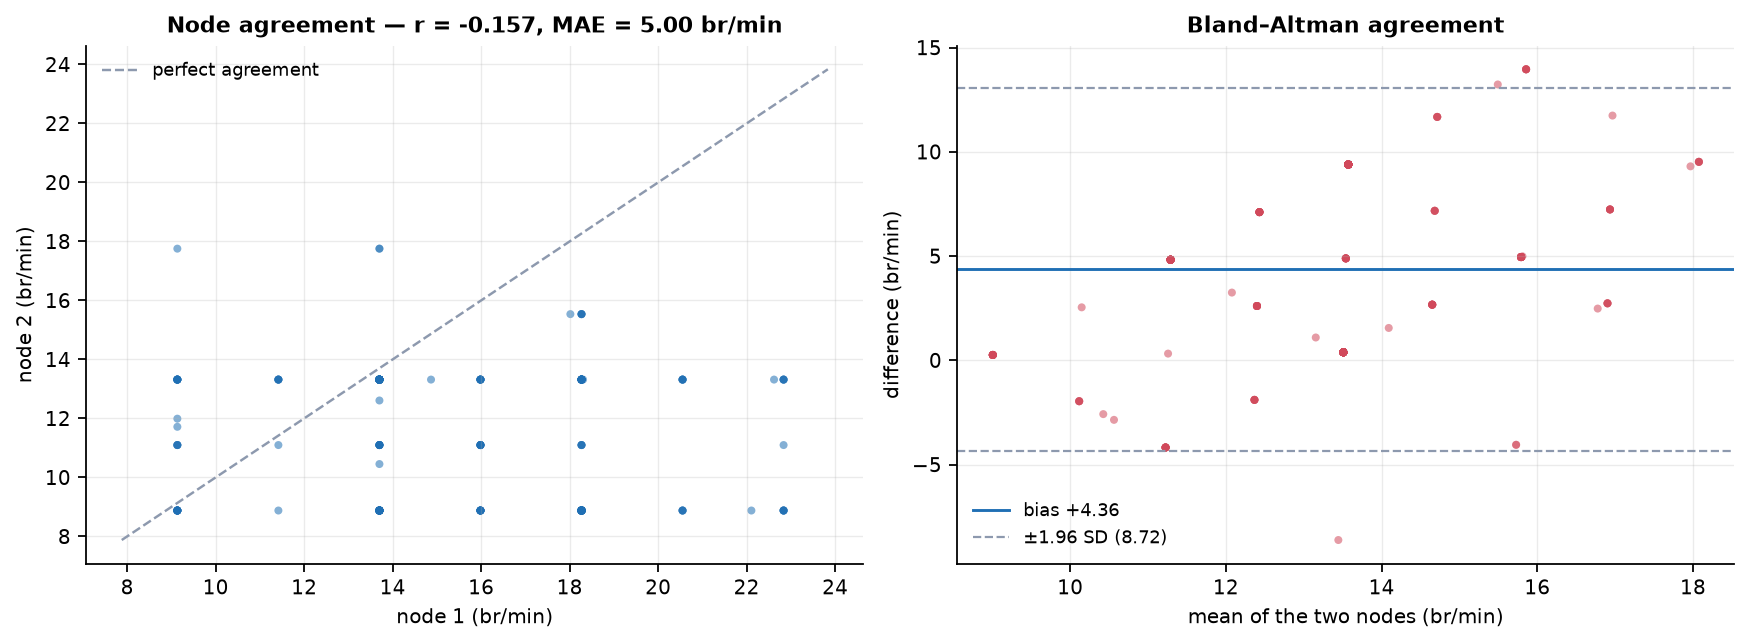
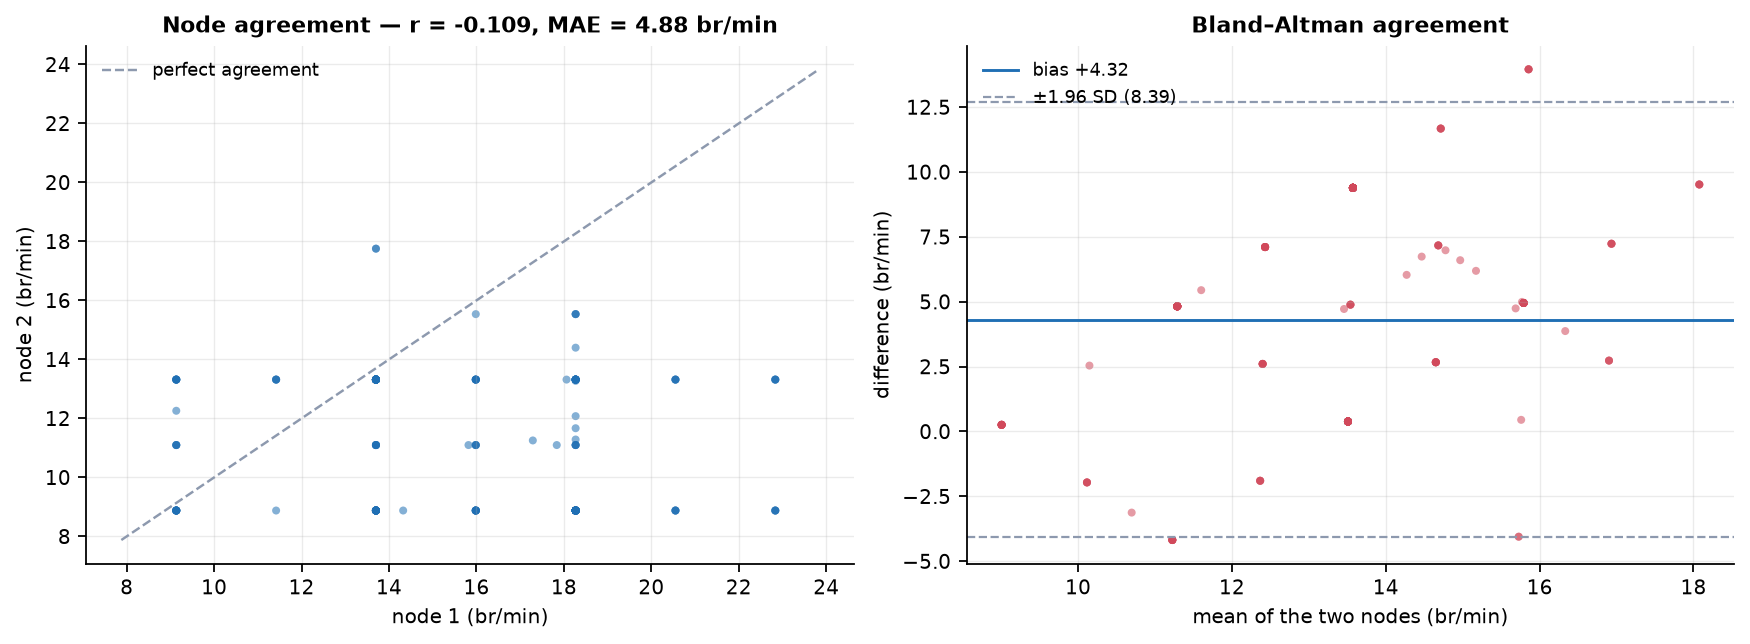
Fix stale 2-minute node-agreement number (-0.157 -> -0.109)
The committed output/ for the 2-minute recording was generated before the
grid-density fix and never regenerated, so its node-agreement correlation
(-0.157) no longer matched what the current code produces (-0.109). The
respiration series are identical (medians 15.98 / 11.10); only the resampling
grid changed the correlation, so an examiner regenerating output/ as the README
invites would have seen a different number than the docs cited.

Regenerated output/ with the current code (deterministic: two runs both give
-0.109) and updated the three references -- web/index.html finding card, DEMO.md
results table, README -- to -0.109. Both values are negative and carry the same
"no shared signal" conclusion; this is purely making the cited number
reproducible.

Verified the headline positive number is NOT affected: recomputing the overnight
agreement from its committed breathing CSV with the current grid formula gives
+0.302, matching the committed output_overnight exactly.

diff --git a/web/index.html b/web/index.html
@@ -264,7 +264,7 @@
       <h3>4 · The pipeline discriminates</h3>
       <p>
         On a two-minute "mixed-activity" recording the same pipeline returns
-        cross-node agreement of −0.157 — correctly finding <em>no</em> shared
+        cross-node agreement of −0.109 — correctly finding <em>no</em> shared
         signal when the subject is moving. On the long still-period recording
         it finds +0.30. A method that reaches opposite conclusions on
         different data is doing something real, not always saying yes.

diff --git a/output/RESULTS.md b/output/RESULTS.md
@@ -38,11 +38,11 @@ subject over independent propagation paths, so agreement between their
 estimates is evidence the measurement reflects the subject rather than a
 path-specific artefact.
 
-- Pearson correlation: **-0.157**
-- Mean absolute difference: **5.00 br/min**
-- Bias: +4.36 br/min
-- 95% limits of agreement: ±8.72 br/min
-- Compared over 240 resampled points
+- Pearson correlation: **-0.109**
+- Mean absolute difference: **4.88 br/min**
+- Bias: +4.32 br/min
+- 95% limits of agreement: ±8.39 br/min
+- Compared over 200 resampled points
 
 ### Control: is the agreement real, or distributional?
 
@@ -54,14 +54,14 @@ carries no evidential weight; agreement that collapses is real.
 
 | Pairing | Correlation | MAE (br/min) | Median difference |
 |---------|-------------|--------------|-------------------|
-| aligned (true pairing) | -0.157 | 5.00 | 4.888 |
-| shifted +8s | -0.134 | 4.93 | 2.604 |
-| shifted +17s | +0.185 | 4.65 | 4.329 |
-| shifted +33s | -0.072 | 5.27 | 4.952 |
-| shifted +50s | -0.193 | 5.03 | 2.668 |
-| fully shuffled | -0.079 | 5.03 | 4.888 |
+| aligned (true pairing) | -0.109 | 4.88 | 4.888 |
+| shifted +8s | -0.147 | 4.86 | 2.604 |
+| shifted +17s | +0.124 | 4.67 | 4.804 |
+| shifted +33s | -0.016 | 5.19 | 4.952 |
+| shifted +50s | -0.193 | 5.01 | 2.668 |
+| fully shuffled | -0.054 | 4.85 | 4.888 |
 
-Aligned correlation is **-0.157** -- negative. Two nodes observing
+Aligned correlation is **-0.109** -- negative. Two nodes observing
 the same subject would correlate positively, so this recording provides
 **no evidence of a shared respiratory signal**. The per-window estimates are
 consistent with band-limited noise rather than respiration.

diff --git a/README.md b/README.md
@@ -142,7 +142,7 @@ SD 4.53 in 64-value frames but SD 0.97 in 128-value frames. Mixing them
 injected variance from population switching rather than from the room, and both
 nodes were reading the same artefact.
 
-With frame geometries separated, the nodes **anti-correlate** (r = −0.157).
+With frame geometries separated, the nodes **anti-correlate** (r = −0.109).
 
 **Conclusion: plausibility is not validation. Agreement between independent
 observers is.** The pipeline reports respiration only where cross-node

diff --git a/DEMO.md b/DEMO.md
@@ -104,7 +104,7 @@ directly. The two datasets tell opposite stories, and that pairing is the point.
 
 | | 2-min `pretrain` | 51-min `overnight` |
 |---|---|---|
-| Aligned correlation | **−0.157** | **+0.30** |
+| Aligned correlation | **−0.109** | **+0.30** |
 | Verdict | no shared signal | positive over the full series… |
 | Segment test | — | **…but negative in 4 of 5 segments** |
 
